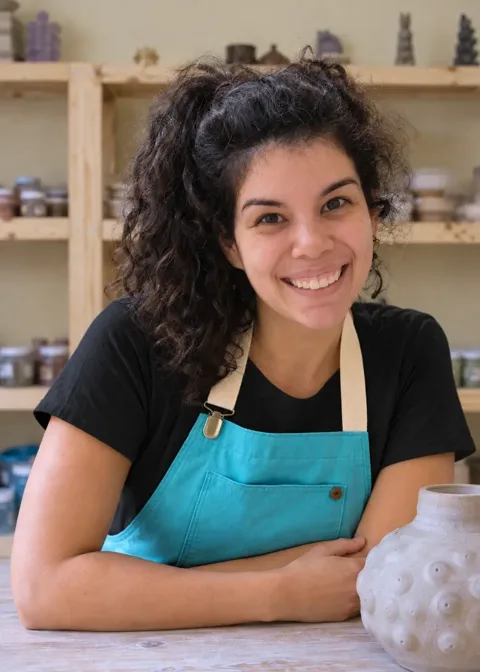
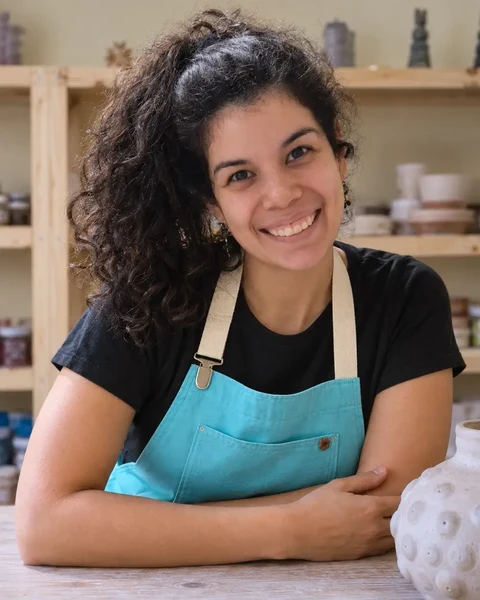
Add files via upload

diff --git a/index.html b/index.html
@@ -313,7 +313,7 @@ src="https://www.facebook.com/tr?id=1002053692646882&ev=PageView&noscript=1"
       </div>
       <div class="mariana-grid">
         <div class="mariana-photo reveal-scale">
-          <img src="assets/mariana-parra-ceramista-taller-caballito.webp" srcset="assets/mariana-parra-ceramista-taller-caballito-480w.webp 480w, assets/mariana-parra-ceramista-taller-caballito-768w.webp 768w, assets/mariana-parra-ceramista-taller-caballito.webp 1062w" sizes="(max-width: 980px) 340px, 450px" alt="Mariana Parra Corrales, arquitecta, ceramista y docente de Artesana del Barro en Caballito" width="1060" height="1484" loading="lazy">
+          <img src="assets/mariana-parra-ceramista-taller-caballito.webp" srcset="assets/mariana-parra-ceramista-taller-caballito-480w.webp 480w, assets/mariana-parra-ceramista-taller-caballito-768w.webp 768w, assets/mariana-parra-ceramista-taller-caballito.webp 1003w" sizes="(max-width: 980px) 340px, 450px" alt="Mariana Parra Corrales, arquitecta, ceramista y docente de Artesana del Barro en Caballito" width="1003" height="1254" loading="lazy">
         </div>
         <div class="mariana-text reveal">
           <p>Mariana Parra Corrales es una arquitecta y ceramista venezolana, radicada en Buenos Aires desde 2019. Se define como creativa, práctica, responsable, emprendedora e inquieta: su motivación es investigar y materializar ideas a través del arte, la ciencia y la técnica.</p>
